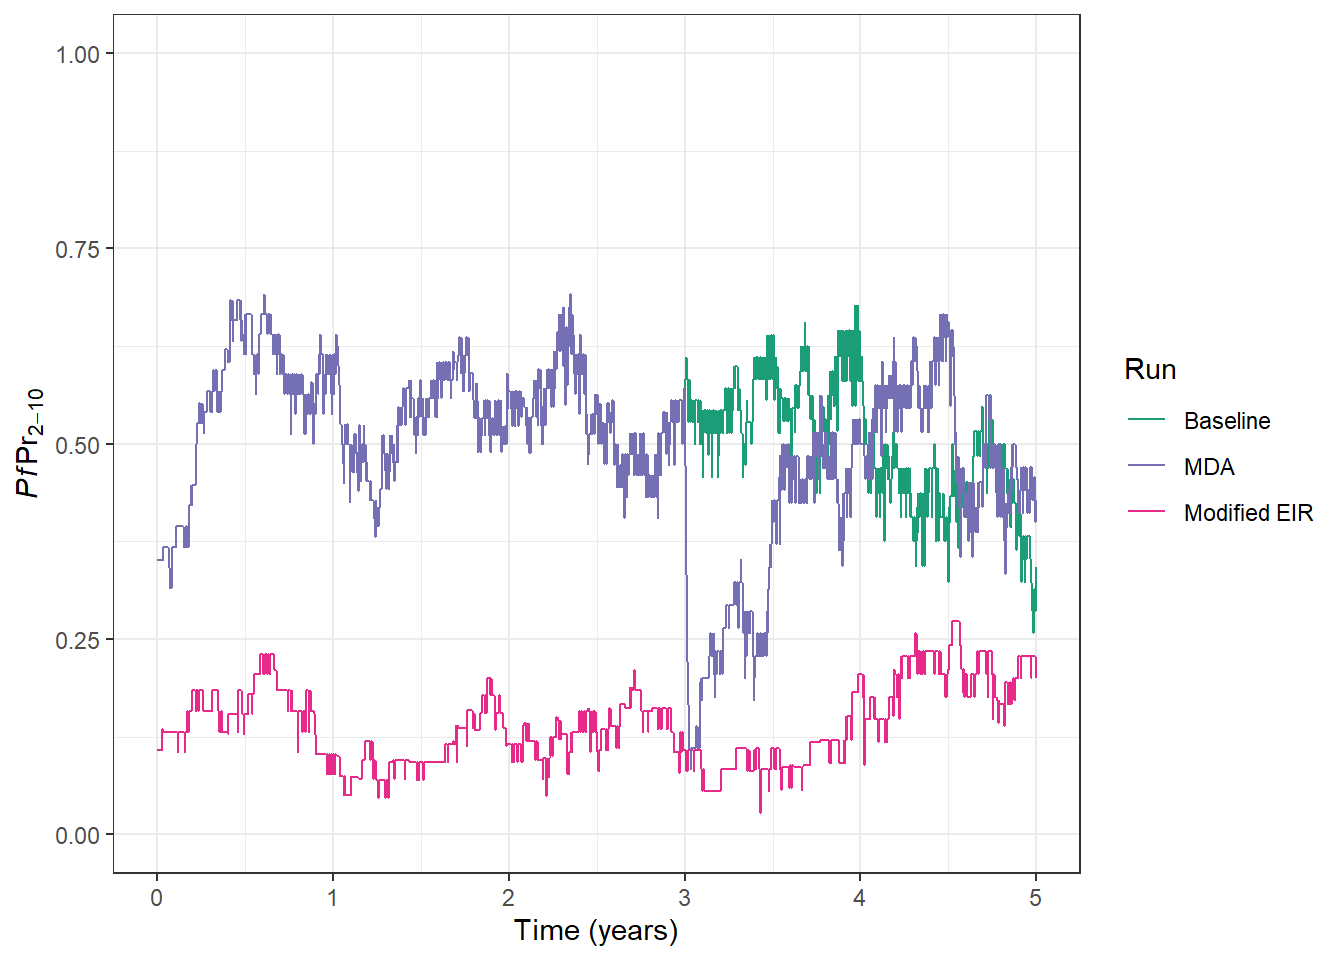
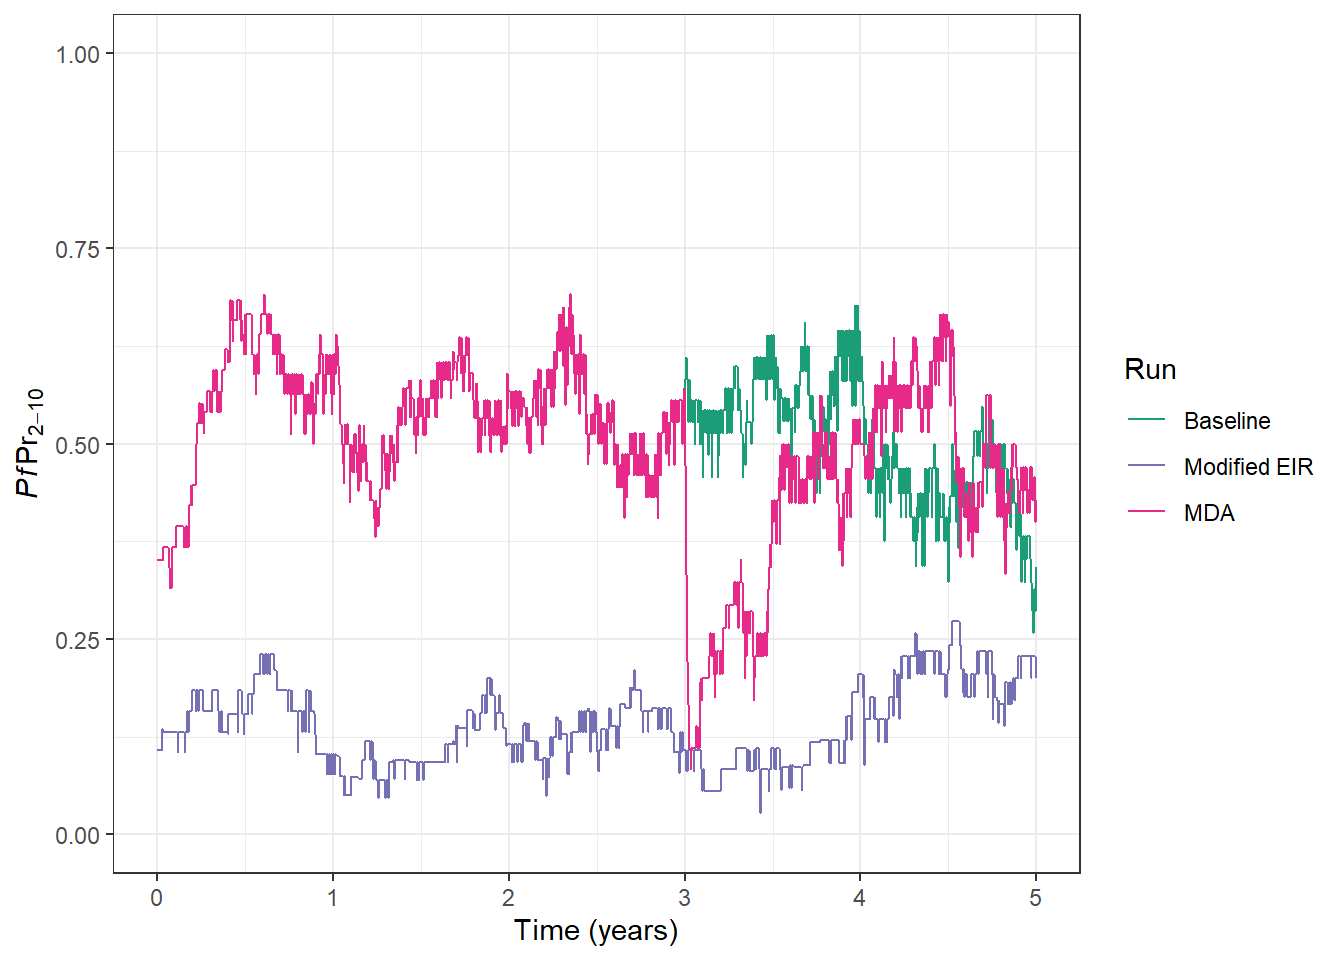
Fix palette and add more context on baseline

diff --git a/docs/tutorial1.html b/docs/tutorial1.html
@@ -275,8 +275,11 @@ $ natural_deaths        &lt;dbl&gt; 0, 0, 0, 0, 0, 0, 0, 0, 0, 0, 0, 0, 0, 0, 0,
 <span id="cb6-3"><a href="#cb6-3" aria-hidden="true" tabindex="-1"></a>  <span class="at">x =</span> output,</span>
 <span id="cb6-4"><a href="#cb6-4" aria-hidden="true" tabindex="-1"></a>  <span class="at">baseline_year =</span> <span class="dv">0</span></span>
 <span id="cb6-5"><a href="#cb6-5" aria-hidden="true" tabindex="-1"></a>) <span class="sc">|&gt;</span></span>
-<span id="cb6-6"><a href="#cb6-6" aria-hidden="true" tabindex="-1"></a>  <span class="fu">mutate</span>(<span class="at">run =</span> <span class="st">"Baseline"</span>)</span>
-<span id="cb6-7"><a href="#cb6-7" aria-hidden="true" tabindex="-1"></a><span class="fu">glimpse</span>(processed_output)</span></code><button title="Copy to Clipboard" class="code-copy-button"><i class="bi"></i></button></pre></div>
+<span id="cb6-6"><a href="#cb6-6" aria-hidden="true" tabindex="-1"></a>  <span class="fu">mutate</span>(</span>
+<span id="cb6-7"><a href="#cb6-7" aria-hidden="true" tabindex="-1"></a>    <span class="at">run =</span> <span class="st">"Baseline"</span>,</span>
+<span id="cb6-8"><a href="#cb6-8" aria-hidden="true" tabindex="-1"></a>    <span class="at">run =</span> <span class="fu">factor</span>(run, <span class="at">levels =</span> <span class="st">"Baseline"</span>)</span>
+<span id="cb6-9"><a href="#cb6-9" aria-hidden="true" tabindex="-1"></a>    )</span>
+<span id="cb6-10"><a href="#cb6-10" aria-hidden="true" tabindex="-1"></a><span class="fu">glimpse</span>(processed_output)</span></code><button title="Copy to Clipboard" class="code-copy-button"><i class="bi"></i></button></pre></div>
 <div class="cell-output cell-output-stdout">
 <pre><code>Rows: 1,825
 Columns: 7
@@ -286,7 +289,7 @@ $ week               &lt;dbl&gt; 1, 1, 1, 1, 1, 1, 1, 2, 2, 2, 2, 2, 2, 2, 3, 3,
 $ day                &lt;dbl&gt; 1, 2, 3, 4, 5, 6, 7, 8, 9, 10, 11, 12, 13, 14, 15, …
 $ time               &lt;dbl&gt; 0.000000000, 0.002739726, 0.005479452, 0.008219178,…
 $ lm_prevalence_2_10 &lt;dbl&gt; 0.3513514, 0.3513514, 0.3513514, 0.3513514, 0.35135…
-$ run                &lt;chr&gt; "Baseline", "Baseline", "Baseline", "Baseline", "Ba…</code></pre>
+$ run                &lt;fct&gt; Baseline, Baseline, Baseline, Baseline, Baseline, B…</code></pre>
 </div>
 </div>
 <p>Often, the best way to examine outputs is to plot them. Malaria prevalence indicates the <em>“Proportion of a specified population with malaria infection at one time”</em>. We can plot <em>Plasmodium falciparum</em> parasite prevalence in 2-10 year (<em>Pf</em>PR<sub>2-10</sub>) olds over time.</p>
@@ -337,14 +340,17 @@ $ run                &lt;chr&gt; "Baseline", "Baseline", "Baseline", "Baseline",
 <span id="cb9-16"><a href="#cb9-16" aria-hidden="true" tabindex="-1"></a>  <span class="at">x =</span> output,</span>
 <span id="cb9-17"><a href="#cb9-17" aria-hidden="true" tabindex="-1"></a>  <span class="at">baseline_year =</span> <span class="dv">0</span></span>
 <span id="cb9-18"><a href="#cb9-18" aria-hidden="true" tabindex="-1"></a>) <span class="sc">|&gt;</span></span>
-<span id="cb9-19"><a href="#cb9-19" aria-hidden="true" tabindex="-1"></a>  <span class="fu">mutate</span>(<span class="at">run =</span> <span class="st">"Modified EIR"</span>)</span>
-<span id="cb9-20"><a href="#cb9-20" aria-hidden="true" tabindex="-1"></a></span>
-<span id="cb9-21"><a href="#cb9-21" aria-hidden="true" tabindex="-1"></a><span class="co"># Add the output from our latest model run to the plot</span></span>
-<span id="cb9-22"><a href="#cb9-22" aria-hidden="true" tabindex="-1"></a>prev_plot <span class="ot">&lt;-</span> prev_plot <span class="sc">+</span> </span>
-<span id="cb9-23"><a href="#cb9-23" aria-hidden="true" tabindex="-1"></a>  <span class="fu">geom_line</span>(</span>
-<span id="cb9-24"><a href="#cb9-24" aria-hidden="true" tabindex="-1"></a>    <span class="at">data =</span> processed_output, <span class="fu">aes</span>(<span class="at">x =</span> time, <span class="at">y =</span> lm_prevalence_2_10, <span class="at">col =</span> run)</span>
-<span id="cb9-25"><a href="#cb9-25" aria-hidden="true" tabindex="-1"></a>  )</span>
-<span id="cb9-26"><a href="#cb9-26" aria-hidden="true" tabindex="-1"></a>prev_plot</span></code><button title="Copy to Clipboard" class="code-copy-button"><i class="bi"></i></button></pre></div>
+<span id="cb9-19"><a href="#cb9-19" aria-hidden="true" tabindex="-1"></a>  <span class="fu">mutate</span>(</span>
+<span id="cb9-20"><a href="#cb9-20" aria-hidden="true" tabindex="-1"></a>    <span class="at">run =</span> <span class="st">"Modified EIR"</span>,</span>
+<span id="cb9-21"><a href="#cb9-21" aria-hidden="true" tabindex="-1"></a>    <span class="at">run =</span> <span class="fu">factor</span>(run, <span class="at">levels =</span> <span class="fu">c</span>(<span class="st">"Baseline"</span>, <span class="st">"Modified EIR"</span>))</span>
+<span id="cb9-22"><a href="#cb9-22" aria-hidden="true" tabindex="-1"></a>    )</span>
+<span id="cb9-23"><a href="#cb9-23" aria-hidden="true" tabindex="-1"></a></span>
+<span id="cb9-24"><a href="#cb9-24" aria-hidden="true" tabindex="-1"></a><span class="co"># Add the output from our latest model run to the plot</span></span>
+<span id="cb9-25"><a href="#cb9-25" aria-hidden="true" tabindex="-1"></a>prev_plot <span class="ot">&lt;-</span> prev_plot <span class="sc">+</span> </span>
+<span id="cb9-26"><a href="#cb9-26" aria-hidden="true" tabindex="-1"></a>  <span class="fu">geom_line</span>(</span>
+<span id="cb9-27"><a href="#cb9-27" aria-hidden="true" tabindex="-1"></a>    <span class="at">data =</span> processed_output, <span class="fu">aes</span>(<span class="at">x =</span> time, <span class="at">y =</span> lm_prevalence_2_10, <span class="at">col =</span> run)</span>
+<span id="cb9-28"><a href="#cb9-28" aria-hidden="true" tabindex="-1"></a>  )</span>
+<span id="cb9-29"><a href="#cb9-29" aria-hidden="true" tabindex="-1"></a>prev_plot</span></code><button title="Copy to Clipboard" class="code-copy-button"><i class="bi"></i></button></pre></div>
 <div class="cell-output-display">
 <div>
 <figure class="figure">
@@ -354,6 +360,7 @@ $ run                &lt;chr&gt; "Baseline", "Baseline", "Baseline", "Baseline",
 </div>
 </div>
 <p>Our <code>Baseline</code> run used the default EIR of 10. For our modified run, we can see the impact of lowering the EIR to 2 - <em>Pf</em>PR<sub>2-10</sub> has fallen from around 50% to 20%.</p>
+<p>The intrinsic or baseline carrying capacity of an area refers to the maximum number of mosquitoes that the environment can naturally support, determined by local ecological factors. This capacity sets the potential level of malaria transmission in a region by shaping the population size of the malaria vector. Areas with higher carrying capacity sustain larger mosquito populations, which can drive higher transmission rates. Understanding this baseline is crucial in malaria modelling, as it underpins the natural transmission dynamics and informs the impact of interventions.</p>
 <hr>
 </section>
 </section>
@@ -400,14 +407,17 @@ $ run                &lt;chr&gt; "Baseline", "Baseline", "Baseline", "Baseline",
 <span id="cb10-36"><a href="#cb10-36" aria-hidden="true" tabindex="-1"></a>  <span class="at">x =</span> output,</span>
 <span id="cb10-37"><a href="#cb10-37" aria-hidden="true" tabindex="-1"></a>  <span class="at">baseline_year =</span> <span class="dv">0</span></span>
 <span id="cb10-38"><a href="#cb10-38" aria-hidden="true" tabindex="-1"></a>) <span class="sc">|&gt;</span></span>
-<span id="cb10-39"><a href="#cb10-39" aria-hidden="true" tabindex="-1"></a>  <span class="fu">mutate</span>(<span class="at">run =</span> <span class="st">"MDA"</span>)</span>
-<span id="cb10-40"><a href="#cb10-40" aria-hidden="true" tabindex="-1"></a></span>
-<span id="cb10-41"><a href="#cb10-41" aria-hidden="true" tabindex="-1"></a><span class="co"># Add the output from our latest model run to the plot</span></span>
-<span id="cb10-42"><a href="#cb10-42" aria-hidden="true" tabindex="-1"></a>prev_plot <span class="ot">&lt;-</span> prev_plot <span class="sc">+</span> </span>
-<span id="cb10-43"><a href="#cb10-43" aria-hidden="true" tabindex="-1"></a>  <span class="fu">geom_line</span>(</span>
-<span id="cb10-44"><a href="#cb10-44" aria-hidden="true" tabindex="-1"></a>    <span class="at">data =</span> processed_output, <span class="fu">aes</span>(<span class="at">x =</span> time, <span class="at">y =</span> lm_prevalence_2_10, <span class="at">col =</span> run)</span>
-<span id="cb10-45"><a href="#cb10-45" aria-hidden="true" tabindex="-1"></a>  )</span>
-<span id="cb10-46"><a href="#cb10-46" aria-hidden="true" tabindex="-1"></a>prev_plot</span></code><button title="Copy to Clipboard" class="code-copy-button"><i class="bi"></i></button></pre></div>
+<span id="cb10-39"><a href="#cb10-39" aria-hidden="true" tabindex="-1"></a>  <span class="fu">mutate</span>(</span>
+<span id="cb10-40"><a href="#cb10-40" aria-hidden="true" tabindex="-1"></a>    <span class="at">run =</span> <span class="st">"MDA"</span>,</span>
+<span id="cb10-41"><a href="#cb10-41" aria-hidden="true" tabindex="-1"></a>    <span class="at">run =</span> <span class="fu">factor</span>(run, <span class="at">levels =</span> <span class="fu">c</span>(<span class="st">"Baseline"</span>, <span class="st">"Modified EIR"</span>, <span class="st">"MDA"</span>))</span>
+<span id="cb10-42"><a href="#cb10-42" aria-hidden="true" tabindex="-1"></a>    )</span>
+<span id="cb10-43"><a href="#cb10-43" aria-hidden="true" tabindex="-1"></a></span>
+<span id="cb10-44"><a href="#cb10-44" aria-hidden="true" tabindex="-1"></a><span class="co"># Add the output from our latest model run to the plot</span></span>
+<span id="cb10-45"><a href="#cb10-45" aria-hidden="true" tabindex="-1"></a>prev_plot <span class="ot">&lt;-</span> prev_plot <span class="sc">+</span> </span>
+<span id="cb10-46"><a href="#cb10-46" aria-hidden="true" tabindex="-1"></a>  <span class="fu">geom_line</span>(</span>
+<span id="cb10-47"><a href="#cb10-47" aria-hidden="true" tabindex="-1"></a>    <span class="at">data =</span> processed_output, <span class="fu">aes</span>(<span class="at">x =</span> time, <span class="at">y =</span> lm_prevalence_2_10, <span class="at">col =</span> run)</span>
+<span id="cb10-48"><a href="#cb10-48" aria-hidden="true" tabindex="-1"></a>  )</span>
+<span id="cb10-49"><a href="#cb10-49" aria-hidden="true" tabindex="-1"></a>prev_plot</span></code><button title="Copy to Clipboard" class="code-copy-button"><i class="bi"></i></button></pre></div>
 <div class="cell-output-display">
 <div>
 <figure class="figure">
@@ -453,14 +463,17 @@ $ run                &lt;chr&gt; "Baseline", "Baseline", "Baseline", "Baseline",
 <span id="cb11-28"><a href="#cb11-28" aria-hidden="true" tabindex="-1"></a>  <span class="at">x =</span> output,</span>
 <span id="cb11-29"><a href="#cb11-29" aria-hidden="true" tabindex="-1"></a>  <span class="at">baseline_year =</span> <span class="dv">0</span></span>
 <span id="cb11-30"><a href="#cb11-30" aria-hidden="true" tabindex="-1"></a>) <span class="sc">|&gt;</span></span>
-<span id="cb11-31"><a href="#cb11-31" aria-hidden="true" tabindex="-1"></a>  <span class="fu">mutate</span>(<span class="at">run =</span> <span class="st">"MDA + Bednets"</span>)</span>
-<span id="cb11-32"><a href="#cb11-32" aria-hidden="true" tabindex="-1"></a></span>
-<span id="cb11-33"><a href="#cb11-33" aria-hidden="true" tabindex="-1"></a><span class="co"># Add the output from our latest model run to the plot</span></span>
-<span id="cb11-34"><a href="#cb11-34" aria-hidden="true" tabindex="-1"></a>prev_plot <span class="ot">&lt;-</span> prev_plot <span class="sc">+</span> </span>
-<span id="cb11-35"><a href="#cb11-35" aria-hidden="true" tabindex="-1"></a>  <span class="fu">geom_line</span>(</span>
-<span id="cb11-36"><a href="#cb11-36" aria-hidden="true" tabindex="-1"></a>    <span class="at">data =</span> processed_output, <span class="fu">aes</span>(<span class="at">x =</span> time, <span class="at">y =</span> lm_prevalence_2_10, <span class="at">col =</span> run)</span>
-<span id="cb11-37"><a href="#cb11-37" aria-hidden="true" tabindex="-1"></a>  )</span>
-<span id="cb11-38"><a href="#cb11-38" aria-hidden="true" tabindex="-1"></a>prev_plot</span></code><button title="Copy to Clipboard" class="code-copy-button"><i class="bi"></i></button></pre></div>
+<span id="cb11-31"><a href="#cb11-31" aria-hidden="true" tabindex="-1"></a>  <span class="fu">mutate</span>(</span>
+<span id="cb11-32"><a href="#cb11-32" aria-hidden="true" tabindex="-1"></a>    <span class="at">run =</span> <span class="st">"MDA + Bednets"</span>,</span>
+<span id="cb11-33"><a href="#cb11-33" aria-hidden="true" tabindex="-1"></a>    <span class="at">run =</span> <span class="fu">factor</span>(run, <span class="at">levels =</span> <span class="fu">c</span>(<span class="st">"Baseline"</span>, <span class="st">"Modified EIR"</span>, <span class="st">"MDA"</span>, <span class="st">"MDA + Bednets"</span>))</span>
+<span id="cb11-34"><a href="#cb11-34" aria-hidden="true" tabindex="-1"></a>    )</span>
+<span id="cb11-35"><a href="#cb11-35" aria-hidden="true" tabindex="-1"></a></span>
+<span id="cb11-36"><a href="#cb11-36" aria-hidden="true" tabindex="-1"></a><span class="co"># Add the output from our latest model run to the plot</span></span>
+<span id="cb11-37"><a href="#cb11-37" aria-hidden="true" tabindex="-1"></a>prev_plot <span class="ot">&lt;-</span> prev_plot <span class="sc">+</span> </span>
+<span id="cb11-38"><a href="#cb11-38" aria-hidden="true" tabindex="-1"></a>  <span class="fu">geom_line</span>(</span>
+<span id="cb11-39"><a href="#cb11-39" aria-hidden="true" tabindex="-1"></a>    <span class="at">data =</span> processed_output, <span class="fu">aes</span>(<span class="at">x =</span> time, <span class="at">y =</span> lm_prevalence_2_10, <span class="at">col =</span> run)</span>
+<span id="cb11-40"><a href="#cb11-40" aria-hidden="true" tabindex="-1"></a>  )</span>
+<span id="cb11-41"><a href="#cb11-41" aria-hidden="true" tabindex="-1"></a>prev_plot</span></code><button title="Copy to Clipboard" class="code-copy-button"><i class="bi"></i></button></pre></div>
 <div class="cell-output-display">
 <div>
 <figure class="figure">

diff --git a/docs/tutorial2.html b/docs/tutorial2.html
@@ -245,21 +245,24 @@ pre > code.sourceCode > span > a:first-child::before { text-decoration: underlin
 <span id="cb2-25"><a href="#cb2-25" aria-hidden="true" tabindex="-1"></a>  <span class="at">x =</span> output,</span>
 <span id="cb2-26"><a href="#cb2-26" aria-hidden="true" tabindex="-1"></a>  <span class="at">baseline_year =</span> <span class="dv">0</span></span>
 <span id="cb2-27"><a href="#cb2-27" aria-hidden="true" tabindex="-1"></a>) <span class="sc">|&gt;</span></span>
-<span id="cb2-28"><a href="#cb2-28" aria-hidden="true" tabindex="-1"></a>  <span class="fu">mutate</span>(<span class="at">run =</span> <span class="st">"Seasonal"</span>)</span>
-<span id="cb2-29"><a href="#cb2-29" aria-hidden="true" tabindex="-1"></a></span>
-<span id="cb2-30"><a href="#cb2-30" aria-hidden="true" tabindex="-1"></a>prev_plot <span class="ot">&lt;-</span> <span class="fu">ggplot</span>(</span>
-<span id="cb2-31"><a href="#cb2-31" aria-hidden="true" tabindex="-1"></a>  <span class="at">data =</span> processed_output,</span>
-<span id="cb2-32"><a href="#cb2-32" aria-hidden="true" tabindex="-1"></a>  <span class="fu">aes</span>(<span class="at">x =</span> time, <span class="at">y =</span> lm_prevalence_2_10, <span class="at">colour =</span> run)</span>
-<span id="cb2-33"><a href="#cb2-33" aria-hidden="true" tabindex="-1"></a>) <span class="sc">+</span></span>
-<span id="cb2-34"><a href="#cb2-34" aria-hidden="true" tabindex="-1"></a>  <span class="fu">geom_line</span>() <span class="sc">+</span></span>
-<span id="cb2-35"><a href="#cb2-35" aria-hidden="true" tabindex="-1"></a>  <span class="fu">scale_colour_manual</span>(</span>
-<span id="cb2-36"><a href="#cb2-36" aria-hidden="true" tabindex="-1"></a>    <span class="at">values =</span> palette, <span class="at">name =</span> <span class="st">"Run"</span></span>
-<span id="cb2-37"><a href="#cb2-37" aria-hidden="true" tabindex="-1"></a>  ) <span class="sc">+</span></span>
-<span id="cb2-38"><a href="#cb2-38" aria-hidden="true" tabindex="-1"></a>  <span class="fu">xlab</span>(<span class="st">"Time (years)"</span>) <span class="sc">+</span></span>
-<span id="cb2-39"><a href="#cb2-39" aria-hidden="true" tabindex="-1"></a>  <span class="fu">ylab</span>(<span class="fu">expression</span>(<span class="fu">italic</span>(Pf) <span class="sc">*</span> Pr[<span class="dv">2-10</span>])) <span class="sc">+</span></span>
-<span id="cb2-40"><a href="#cb2-40" aria-hidden="true" tabindex="-1"></a>  <span class="fu">ylim</span>(<span class="dv">0</span>, <span class="dv">1</span>) <span class="sc">+</span></span>
-<span id="cb2-41"><a href="#cb2-41" aria-hidden="true" tabindex="-1"></a>  <span class="fu">theme_bw</span>()</span>
-<span id="cb2-42"><a href="#cb2-42" aria-hidden="true" tabindex="-1"></a>prev_plot</span></code><button title="Copy to Clipboard" class="code-copy-button"><i class="bi"></i></button></pre></div>
+<span id="cb2-28"><a href="#cb2-28" aria-hidden="true" tabindex="-1"></a>  <span class="fu">mutate</span>(</span>
+<span id="cb2-29"><a href="#cb2-29" aria-hidden="true" tabindex="-1"></a>    <span class="at">run =</span> <span class="st">"Seasonal"</span>,</span>
+<span id="cb2-30"><a href="#cb2-30" aria-hidden="true" tabindex="-1"></a>    <span class="at">run =</span> <span class="fu">factor</span>(run, <span class="at">levels =</span> <span class="fu">c</span>(<span class="st">"Seasonal"</span>))</span>
+<span id="cb2-31"><a href="#cb2-31" aria-hidden="true" tabindex="-1"></a>    )</span>
+<span id="cb2-32"><a href="#cb2-32" aria-hidden="true" tabindex="-1"></a></span>
+<span id="cb2-33"><a href="#cb2-33" aria-hidden="true" tabindex="-1"></a>prev_plot <span class="ot">&lt;-</span> <span class="fu">ggplot</span>(</span>
+<span id="cb2-34"><a href="#cb2-34" aria-hidden="true" tabindex="-1"></a>  <span class="at">data =</span> processed_output,</span>
+<span id="cb2-35"><a href="#cb2-35" aria-hidden="true" tabindex="-1"></a>  <span class="fu">aes</span>(<span class="at">x =</span> time, <span class="at">y =</span> lm_prevalence_2_10, <span class="at">colour =</span> run)</span>
+<span id="cb2-36"><a href="#cb2-36" aria-hidden="true" tabindex="-1"></a>) <span class="sc">+</span></span>
+<span id="cb2-37"><a href="#cb2-37" aria-hidden="true" tabindex="-1"></a>  <span class="fu">geom_line</span>() <span class="sc">+</span></span>
+<span id="cb2-38"><a href="#cb2-38" aria-hidden="true" tabindex="-1"></a>  <span class="fu">scale_colour_manual</span>(</span>
+<span id="cb2-39"><a href="#cb2-39" aria-hidden="true" tabindex="-1"></a>    <span class="at">values =</span> palette, <span class="at">name =</span> <span class="st">"Run"</span></span>
+<span id="cb2-40"><a href="#cb2-40" aria-hidden="true" tabindex="-1"></a>  ) <span class="sc">+</span></span>
+<span id="cb2-41"><a href="#cb2-41" aria-hidden="true" tabindex="-1"></a>  <span class="fu">xlab</span>(<span class="st">"Time (years)"</span>) <span class="sc">+</span></span>
+<span id="cb2-42"><a href="#cb2-42" aria-hidden="true" tabindex="-1"></a>  <span class="fu">ylab</span>(<span class="fu">expression</span>(<span class="fu">italic</span>(Pf) <span class="sc">*</span> Pr[<span class="dv">2-10</span>])) <span class="sc">+</span></span>
+<span id="cb2-43"><a href="#cb2-43" aria-hidden="true" tabindex="-1"></a>  <span class="fu">ylim</span>(<span class="dv">0</span>, <span class="dv">1</span>) <span class="sc">+</span></span>
+<span id="cb2-44"><a href="#cb2-44" aria-hidden="true" tabindex="-1"></a>  <span class="fu">theme_bw</span>()</span>
+<span id="cb2-45"><a href="#cb2-45" aria-hidden="true" tabindex="-1"></a>prev_plot</span></code><button title="Copy to Clipboard" class="code-copy-button"><i class="bi"></i></button></pre></div>
 <div class="cell-output-display">
 <div>
 <figure class="figure">
@@ -291,11 +294,14 @@ pre > code.sourceCode > span > a:first-child::before { text-decoration: underlin
 <span id="cb3-13"><a href="#cb3-13" aria-hidden="true" tabindex="-1"></a>  <span class="at">x =</span> output,</span>
 <span id="cb3-14"><a href="#cb3-14" aria-hidden="true" tabindex="-1"></a>  <span class="at">baseline_year =</span> <span class="dv">0</span></span>
 <span id="cb3-15"><a href="#cb3-15" aria-hidden="true" tabindex="-1"></a>) <span class="sc">|&gt;</span></span>
-<span id="cb3-16"><a href="#cb3-16" aria-hidden="true" tabindex="-1"></a>  <span class="fu">mutate</span>(<span class="at">run =</span> <span class="st">"Seasonal - large population"</span>)</span>
-<span id="cb3-17"><a href="#cb3-17" aria-hidden="true" tabindex="-1"></a></span>
-<span id="cb3-18"><a href="#cb3-18" aria-hidden="true" tabindex="-1"></a>prev_plot <span class="ot">&lt;-</span> prev_plot <span class="sc">+</span></span>
-<span id="cb3-19"><a href="#cb3-19" aria-hidden="true" tabindex="-1"></a>  <span class="fu">geom_line</span>(<span class="at">data =</span> processed_output, <span class="fu">aes</span>(<span class="at">x =</span> time, <span class="at">y =</span> lm_prevalence_2_10, <span class="at">col =</span> run))</span>
-<span id="cb3-20"><a href="#cb3-20" aria-hidden="true" tabindex="-1"></a>prev_plot</span></code><button title="Copy to Clipboard" class="code-copy-button"><i class="bi"></i></button></pre></div>
+<span id="cb3-16"><a href="#cb3-16" aria-hidden="true" tabindex="-1"></a>  <span class="fu">mutate</span>(</span>
+<span id="cb3-17"><a href="#cb3-17" aria-hidden="true" tabindex="-1"></a>    <span class="at">run =</span> <span class="st">"Seasonal - large population"</span>,</span>
+<span id="cb3-18"><a href="#cb3-18" aria-hidden="true" tabindex="-1"></a>    <span class="at">run =</span> <span class="fu">factor</span>(run, <span class="at">levels =</span> <span class="fu">c</span>(<span class="st">"Seasonal"</span>, <span class="st">"Seasonal - large population"</span>))</span>
+<span id="cb3-19"><a href="#cb3-19" aria-hidden="true" tabindex="-1"></a>    )</span>
+<span id="cb3-20"><a href="#cb3-20" aria-hidden="true" tabindex="-1"></a></span>
+<span id="cb3-21"><a href="#cb3-21" aria-hidden="true" tabindex="-1"></a>prev_plot <span class="ot">&lt;-</span> prev_plot <span class="sc">+</span></span>
+<span id="cb3-22"><a href="#cb3-22" aria-hidden="true" tabindex="-1"></a>  <span class="fu">geom_line</span>(<span class="at">data =</span> processed_output, <span class="fu">aes</span>(<span class="at">x =</span> time, <span class="at">y =</span> lm_prevalence_2_10, <span class="at">col =</span> run))</span>
+<span id="cb3-23"><a href="#cb3-23" aria-hidden="true" tabindex="-1"></a>prev_plot</span></code><button title="Copy to Clipboard" class="code-copy-button"><i class="bi"></i></button></pre></div>
 <div class="cell-output-display">
 <div>
 <figure class="figure">
